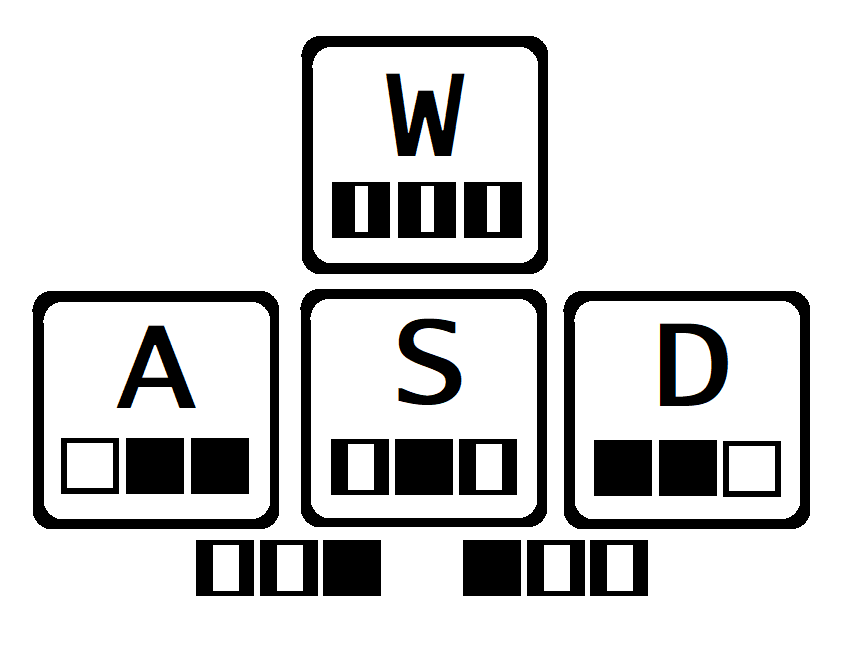
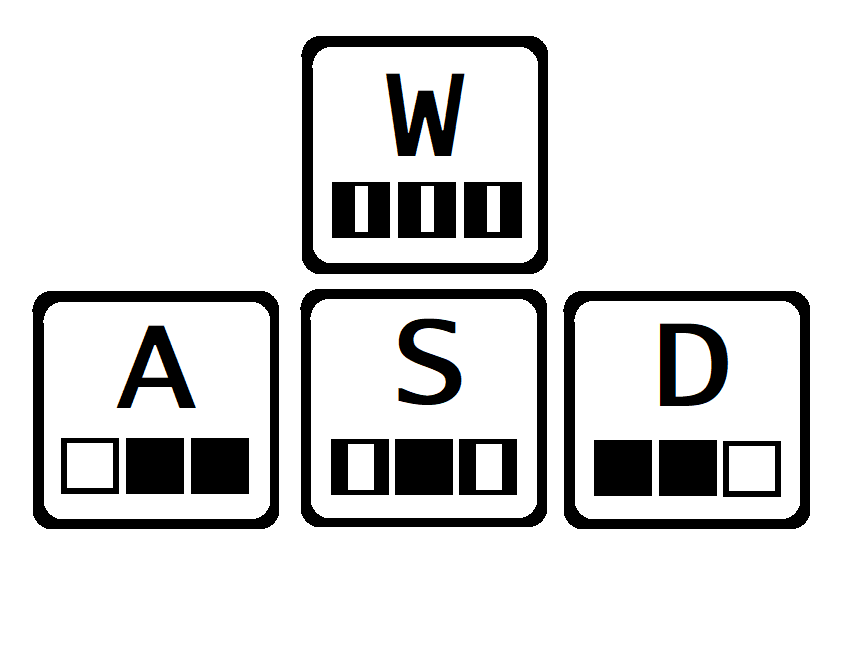
I changed the start screen to include more instructions and also added two new controls to make the game more difficult

Changed region(s): [[0.2151, 0.8346, 0.461, 0.9274], [0.5225, 0.8346, 0.7683, 0.9274]]

diff --git a/canvas.js b/canvas.js
@@ -22,12 +22,14 @@ point.src= "audio/point.wav";
 let clap= new Audio();
 clap.src="audio/clap.wav";
 
+let trial; //interval for the beginning to let players try out the keyboard controls 
+let trialBool=true; //if the trial keyboard control is going to happen, happening, or just happened, this is true
 let trito; //global variable that will store the interval (game loop)
 let player; //global variable which stores the position of the player 
-let a; //these are the keys and they are false since they are up.
-let d;
-let s;
-let w;
+let a=false; //these are the keys and they are false since they are up.
+let d=false;
+let s=false;
+let w=false;
 let score=0;//game score
 let hiScore=0; //highscore
 let game= false;//if the game has started, need this since if not, everytime the trisected square command would be received, it would restart the whole game :/
@@ -36,8 +38,7 @@ let y2 = -72; //position of the second wave of filled rectangle
 let y3 = -125; //since it's height is slightly bigger than the waves is starts a little higher
 let filled1 = true; //boolean for the first wave of filled rectangles
 let filled2 = false; //boolean for the second wave of filled rectangles
-let dy=18; //speed of the waves
-let ddy=8; //after a score of 50, the speed will increase, so this var is the acceleration of the waves till they reach a maximum speed
+let dy=17; //speed of the waves
 let sep=350; //separation between the two waves
 let type=1; //first wave is the easiest one (Answer: KeyS)
 let type2; //since there will be two waves on the same screen type and type2 are distinct types
@@ -58,6 +59,14 @@ instructions.src = "img/instructions.png"; // It has to be in this order for the
 
 
 
+trial = setInterval(function(){
+	c.clearRect(0,490,400,110);
+	position();
+	drawPlayer();
+},10);
+
+
+
 
 
 //The start screen
@@ -66,15 +75,25 @@ function startScreen(){
 	c.font = "bold 25px Lucida Console"; 
 	fontMac("bold 25px");
 	c.textAlign = "center";
-	c.fillText("Press  Space  to start",200,300);
+	c.fillText("Press  Space  to start",200,50);
 	c.font = "10px Lucida Console";
 	fontMac("10px");
-	c.fillText("Read the instructions below if it's your first time.",200,330);
+	c.fillText("Read the instructions below if it's your first time.",200,80);
 	c.lineWidth=3;
-	c.strokeRect(118,280,120,26);
+	c.strokeRect(118,30,120,26);
 	c.lineWidth=3;
-	c.drawImage(instructions,97,400,200,140); //smaller
-	//c.drawImage(instructions,75,400,250,180); //bigger 
+	c.font = "bold 13px Lucida Console";
+	fontMac("bold 13px");
+	c.textAlign = "left";
+	c.fillText("INSTRUCTIONS",0,190);
+	c.font = "13px Lucida Console";
+	fontMac("13px");
+	c.textAlign = "center";
+	c.fillText("Goal: Dodge the rectangles coming your way",200,210);
+	c.fillText("Controls:                                         ",200,230);
+	c.drawImage(instructions,97,240,200,140); 
+	c.fillText("Try the controls on this page by using the 4 keys",200,400);
+	c.fillText("Hint: Combine different keys (A,S,D,F) together",200,420);
 }
 
 
@@ -89,8 +108,6 @@ function reset(){ //If the player wants to play the game again
 	y3 = -125; 
 	filled1 = true; 
 	filled2 = false; 
-	dy=18; 
-	ddy=8; 
 	sep=350; 
 	type=1; 
 	type2; 
@@ -119,6 +136,10 @@ function down(event){ //function down receives the event sent by addEventListene
 		reset(); //If the player is playing multiple games
 		go.pause();
 		game = true;
+		if (trialBool==true){
+			clearInterval(trial);
+			trialBool=false;
+		}
 		gameStart(); 
 	}
 }
@@ -167,8 +188,12 @@ function gameStart(){
 //I started this game with 7 controls ASD for the square position and JKL for the half-square position and space for the trisected squares
 //After a friend told me that keyup is a thing in JS, something I overlooked I decided to go back to my original plan when starting this game and to only use 4 controls A,S,D,W like the typical games which will make the learning curve more shallow
 function position(){
-	if (w==true){
-		player="3";
+	if (a==false && d==false && s==false && w==true){
+		player="m3";
+	} else if (a==true && d==false  && s==false && w==true){
+		player="l3";
+	} else if (a==false && d==true && s==false && w==true){
+		player="r3";
 	} else if (a==true && d==false && s==true && w==false){
 		player="l2";
 	} else if (a==false && d==true && s==true && w==false){
@@ -183,8 +208,6 @@ function position(){
 		player="m";
 	} //if both a and d are pressed down at the same time, then the past position is kept
 }
-
-
 
 //draws the player
 function drawPlayer(){
@@ -214,15 +237,27 @@ function drawPlayer(){
 		c.fillRect(283,500,35,70);
 		c.strokeRect(83,500,35,70);
 		c.strokeRect(283,500,35,70);
-	} else if (player == "3") { //70/3 is ~23, not 18 but I did this so that the 1/3 square is visually different from the 1/2 square so that players see it easily
+	} else if (player == "m3") { //70/3 is ~23, not 18 but I did this so that the 1/3 square is visually different from the 1/2 square so that players see it easily
 		c.fillRect(91,500,18,70);
 		c.fillRect(191,500,18,70);
 		c.fillRect(291,500,18,70);
 		c.strokeRect(91,500,18,70);
 		c.strokeRect(191,500,18,70);
 		c.strokeRect(291,500,18,70);
+	} else if (player == "l3"){
+		c.fillRect(91,500,18,70);
+		c.fillRect(177,500,46,70);
+		c.strokeRect(91,500,18,70);
+		c.strokeRect(177,500,46,70);
+	} else if (player == "r3") {
+		c.fillRect(291,500,18,70);
+		c.fillRect(177,500,46,70);
+		c.strokeRect(291,500,18,70);
+		c.strokeRect(177,500,46,70);
 	}
 }
+
+
 
 //draws filled rectangles/obstacles
 function drawFilled(type, y){
@@ -230,37 +265,50 @@ function drawFilled(type, y){
 	if (type == 0){ //for A
 		c.fillRect(165,y,70,70);
 		c.fillRect(265,y,70,70);
-	} else if (type == 1) { //for S
+	} else if (type == 1) { //for nothing
 		c.fillRect(65,y,70,70);
 		c.fillRect(265,y,70,70);
 	} else if (type == 2) { //for D
 		c.fillRect(65,y,70,70);
 		c.fillRect(165,y,70,70);
-	} else if (type == 3) { //for J
+	} else if (type == 3) { //for S&A
 		c.fillRect(265,y,70,70);
 		c.fillRect(65,y,18,70);
 		c.fillRect(118,y,18,70);
 		c.fillRect(165,y,18,70);
 		c.fillRect(218,y,18,70);
-	} else if (type == 4) { //for L
+	} else if (type == 4) { //for S&D
 		c.fillRect(65,y,70,70);
 		c.fillRect(165,y,18,70);
 		c.fillRect(218,y,18,70);
 		c.fillRect(265,y,18,70);
 		c.fillRect(318,y,18,70);
-	} else if (type == 5) { //for K 
+	} else if (type == 5) { //for S
 		c.fillRect(165,y,70,70);
 		c.fillRect(65,y,18,70);
 		c.fillRect(118,y,18,70);
 		c.fillRect(265,y,18,70);
 		c.fillRect(318,y,18,70);
-	} else if (type == 6) { //for Space
+	} else if (type == 6) { //for W
 		c.fillRect(65,y,26,70);
 		c.fillRect(109,y,26,70);
 		c.fillRect(165,y,26,70);
 		c.fillRect(209,y,26,70);
 		c.fillRect(265,y,26,70);
 		c.fillRect(309,y,26,70);
+	} else if (type == 7) { //for W&A
+		c.fillRect(265,y,70,70);
+		c.fillRect(65,y,26,70);
+		c.fillRect(109,y,26,70);
+		c.fillRect(165,y,12,70);
+		c.fillRect(223,y,12,70);
+		
+	} else if (type == 8) { //for W&D
+		c.fillRect(65,y,70,70);
+		c.fillRect(265,y,26,70);
+		c.fillRect(309,y,26,70);
+		c.fillRect(165,y,12,70);
+		c.fillRect(223,y,12,70);
 	}
 }
 
@@ -289,12 +337,12 @@ function rand() {
 		return Math.floor(Math.random() * 3); //only first types
 	} else if (score>5 && score<=15) {
 		return (Math.floor(Math.random() * 3)+3); //other 3 types
-	} else if (score>15 && score<30) {
+	} else if (score>15 && score<=30) {
 		return Math.floor(Math.random() * 6); //all first 6 types
-	} else if (score==30) { //player needs to be introduced to this new wave at least once when the speed is still pretty low
-		return 6;
-	} else if (score>30){
+	} else if (score>30 && score<=40){
 		return Math.floor(Math.random() * 7);
+	} else if (score>40){
+		return Math.floor(Math.random() * 9);
 	}
 }
 
@@ -359,8 +407,8 @@ function draw(){
 		hiScore=hiScore+1;
 	}
 	//speed starts to go up from score=30 
-	if(score>30){ //speeding up the waves after the player reach a score of 30
-		dy=18+Math.floor(0.4*(Math.sqrt(score-30))); //using a squrt function made a lot of sense since you want the speed to increase 
+	if(score>50){ //speeding up the waves after the player reach a score of 50
+		dy=17+Math.floor(0.4*(Math.sqrt(score-50))); //using a squrt function made a lot of sense since you want the speed to increase 
 		//quickly at the beginning so it's not boring but you want it to stop increasing so quickly towards the end since the difficulty increase between 15 and 20 is a lot lower than the difficulty increase between 30 and 35
 	} 
 	position(); //according to what keys are down/up this says which position the player has to be and this current funtion draws the player accordingly to the position
@@ -368,13 +416,13 @@ function draw(){
 	console.log("Speed:"+dy); //debugging
 
 	//GameOver
-	if (y1>430 && y1<570){ 
-		if ((type==0 && player!="l") || (type==1 && player!="m") || (type==2 && player!="r") || (type==3 && player!="l2") || (type==4 && player!="r2") || (type==5 && player!="m2") || (type==6 && player!="3")) {
+	if (y1>432 && y1<570){ 
+		if ((type==0 && player!="l") || (type==1 && player!="m") || (type==2 && player!="r") || (type==3 && player!="l2") || (type==4 && player!="r2") || (type==5 && player!="m2") || (type==6 && player!="m3") || (type==7 && player!="l3") || (type==8 && player!="r3")) {
 			gameOver(); //stops animation
 		}
 	}
 	if (y2>432 && y2<570) {
-		if ((type2==0 && player!="l") || (type2==1 && player!="m") || (type2==2 && player!="r") || (type2==3 && player!="l2") || (type2==4 && player!="r2") || (type2==5 && player!="m2") || (type2==6 && player!="3")) {
+		if ((type2==0 && player!="l") || (type2==1 && player!="m") || (type2==2 && player!="r") || (type2==3 && player!="l2") || (type2==4 && player!="r2") || (type2==5 && player!="m2") || (type2==6 && player!="m3") || (type2==7 && player!="l3") || (type2==8 && player!="r3")) {
 			gameOver(); //stops animation
 		}
 	}

diff --git a/README.md b/README.md
@@ -9,3 +9,7 @@ Updates:
 2. I finished the game on the 18th at night but want to add more features, like the leaderboard, so I will still be working on this after the 19th (won the bet).
 
 3.Completely changed the controls after a friend who tested my game told me about keyup event in JS, which made me go back to my original plan of using WASD as controls instead of 7 keys (A,S,D,J,K,L,Space) (since I first erroneously thought there was only a keydown event and that there was no way of knowing if a key was "being pressed")
+	A and D are for the positions Left and Right
+	S and W are for dividing the square into 2 parts or 3 parts.
+
+4.Added two more combinations of keys (2 more: W-A and W-D)
